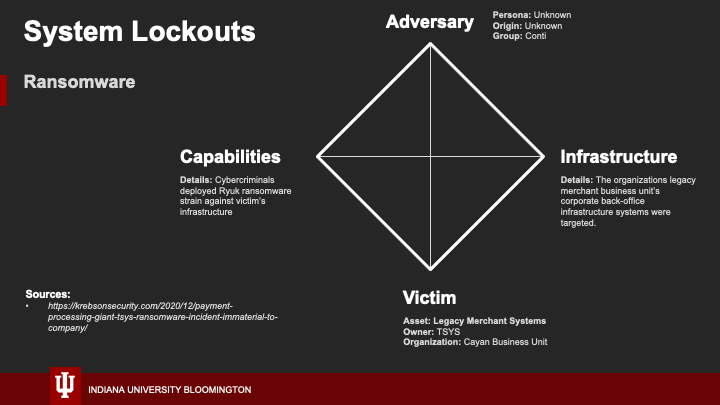
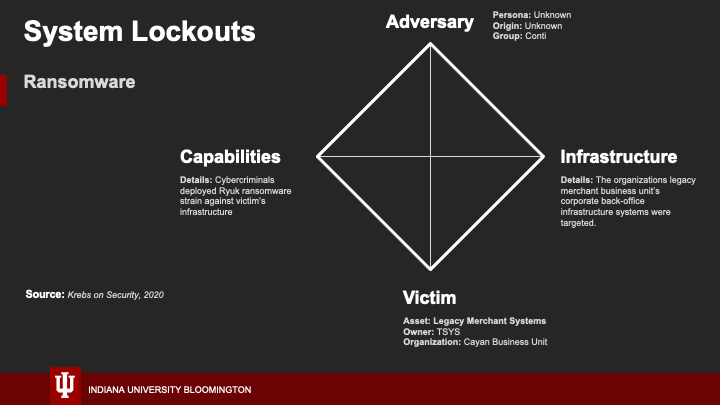
update models

Changed region(s): [[0.0611, 0.7111, 0.3972, 0.8296]]

diff --git a/references/index.html b/references/index.html
@@ -8,61 +8,95 @@ title: "References"
         <div class="layout">
 
             <ul>
-                <li>Lukic, D. (2020), Heartland Payment Systems Breach, What Lessons to be Learned
-                    https://www.idstrong.com/sentinel/heartland-data-breach/</li>
-                <li>(2022). Wikipedia Albert Gonzalez. https://en.wikipedia.org/wiki/Albert_Gonzalez</li>
-                <li>Gillis, A. (2021) Application. https://searchsoftwarequality.techtarget.com/definition/application
+                <li>“9 Biggest Data Breaches in Financial Services [Updated for 2022]:Upguard.”RSS, <a
+                        href="https://www.upguard.com/blog/biggest-data-breaches-financial-services">https://www.upguard.com/blog/biggest-data-breaches-financial-services</a>.
                 </li>
-                <li>Grand View Research, (2022). “Digital Payment Market Size Worth $361.30 Billion by 2030”
-                    https://www.prnewswire.com/news-releases/digital-payment-market-size-worth-361-30-billion-by-2030-grand-view-research-inc-301472256.html#:~:text=SAN%20FRANCISCO%2C%20Feb.,by%20Grand%20View%20Research%2C%20Inc
+                <li>“Albert Gonzalez.” Wikipedia, 2022, <a
+                        href="https://en.wikipedia.org/wiki/Albert_Gonzalez">https://en.wikipedia.org/wiki/Albert_Gonzalez</a>.
                 </li>
-                <li>Smith, David. (2021), “Artificial Intelligence for Secure Payments.”,
-                    https://ai4.io/blog/2020/06/05/artificial-intelligence-for-secure-payments/. </li>
-                <li>“9 Biggest Data Breaches in Financial Services [Updated for 2022]: Upguard.” RSS,
-                    https://www.upguard.com/blog/biggest-data-breaches-financial-services.</li>
-                <li>Weiner, Rachel. “Hacker Linked to Target Data Breach Gets 14 Years in Prison.” The Washington Post,
-                    WP Company, 21 Sept. 2018,
-                    https://www.washingtonpost.com/local/public-safety/hacker-linked-to-target-data-breach-gets-14-years-in-prison/2018/09/21/839fd6b0-bd17-11e8-b7d2-0773aa1e33da_story.html.
-                </li>
-                <li>McCoy, Kevin.(2017), “Target to Pay $18.5M for 2013 Data Breach That Affected 41 Million Consumers.”
-                    USA Today, Gannett Satellite Information Network,
-                    https://www.usatoday.com/story/money/2017/05/23/target-pay-185m-2013-data-breach-affected-consumers/102063932/.
-                </li>
-                <li>Written by Dan Rafter for NortonLifeLock. “2019 Data Breaches: 4 Billion Records Breached so Far.”
-                    Norton, https://us.norton.com/internetsecurity-emerging-threats-2019-data-breaches.html#fin.</li>
                 <li>“Attacks Surge in 1H 2021 as Trend Micro Blocks 41 Billion Cyber Threats.” Trend Micro, 14 Sept.
-                    2021,
-                    https://newsroom.trendmicro.com/2021-09-14-Attacks-Surge-in-1H-2021-as-Trend-Micro-Blocks-41-Billion-Cyber-Threats.
+                    2021, <a
+                        href="https://newsroom.trendmicro.com/2021-09-14-Attacks-Surge-in-1H-2021-as-Trend-Micro-Blocks-41-Billion-Cyber-Threats">https://newsroom.trendmicro.com/2021-09-14-Attacks-Surge-in-1H-2021-as-Trend-Micro-Blocks-41-Billion-Cyber-Threats</a>.
                 </li>
                 <li>Blizard, Dawn. “Be Prepared for Increased DDoS Attacks Ahead of Black Friday.” Security
-                    Intelligence, 23 Nov. 2020,
-                    https://securityintelligence.com/articles/ddos-attacks-ramp-up-black-friday-how-to-prepare/.</li>
+                    Intelligence, 23 Nov. 2020, <a
+                        href="https://securityintelligence.com/articles/ddos-attacks-ramp-up-black-friday-how-to-prepare/">https://securityintelligence.com/articles/ddos-attacks-ramp-up-black-friday-how-to-prepare/</a>.
+                </li>
+                <li>Gillis, Alexander S. “Application.” TechTarget, <a
+                        href="https://searchsoftwarequality.techtarget.com/definition/application">https://searchsoftwarequality.techtarget.com/definition/application</a>.
+                </li>
+                <li>Grand View Research, (2022). “Digital Payment Market Size Worth $361.30 Billion by 2030” <a
+                        href="https://www.prnewswire.com/news-releases/digital-payment-market-size-worth-361-30-billion-by-2030-grand-view-research-inc-301472256.html#:~:text=SAN%20FRANCISCO%2C%20Feb.,by%20Grand%20View%20Research%2C%20Inc">https://www.prnewswire.com/news-releases/digital-payment-market-size-worth-361-30-billion-by-2030-grand-view-research-inc-301472256.html#:~:text=SAN%20FRANCISCO%2C%20Feb.,by%20Grand%20View%20Research%2C%20Inc</a>.
+                </li>
+                <li>Fraser, Nalani, et al. “APT38: Details on New North Korean Regime-Backed Threat Group.” Mandiant, 3
+                    Oct. 2018, <a
+                        href="https://www.mandiant.com/resources/apt38-details-on-new-north-korean-regime-backed-threat-group">https://www.mandiant.com/resources/apt38-details-on-new-north-korean-regime-backed-threat-group</a>.
+                </li>
                 <li>Hope, Alicia. “Credit Card Skimmer at Costco Compromises Customers' Payment Information.” CPO
-                    Magazine, 19 Nov. 2021,
-                    https://www.cpomagazine.com/cyber-security/credit-card-skimmer-at-costco-compromises-customers-payment-information/.
+                    Magazine, 19 Nov. 2021, <a
+                        href="https://www.cpomagazine.com/cyber-security/credit-card-skimmer-at-costco-compromises-customers-payment-information/">https://www.cpomagazine.com/cyber-security/credit-card-skimmer-at-costco-compromises-customers-payment-information/</a>.
                 </li>
                 <li>Ignoffo, Zachary. “Dark Web Price Index 2021 - Dark Web Prices of Personal Data.” PRIVACY Affairs, 3
-                    Feb. 2022, https://www.privacyaffairs.com/dark-web-price-index-2021/.</li>
+                    Feb. 2022, <a
+                        href="https://www.privacyaffairs.com/dark-web-price-index-2021/">https://www.privacyaffairs.com/dark-web-price-index-2021/</a>.
+                </li>
                 <li>Klinjnsma, Yonathan. “Magecart Group 8 Blends into NutriBullet.com Adding To Their Growing List of
-                    Victims.” RiskIQ, 18 Mar. 2020, https://www.riskiq.com/blog/labs/magecart-nutribullet/.</li>
-                <li>Kost, Edward. “The 6 Biggest Cyber Threats for Financial Services in 2022: Upguard.” UpGuard, 30
-                    Jan. 2022, https://www.upguard.com/blog/biggest-cyber-threats-for-financial-services.</li>
+                    Victims.” RiskIQ, 18 Mar. 2020, <a
+                        href="https://www.riskiq.com/blog/labs/magecart-nutribullet/">https://www.riskiq.com/blog/labs/magecart-nutribullet/</a>.
+                </li>
+                <li>Kost, Edward. “The 6 Biggest Cyber Threats for Financial Services in 2022:Upguard.”UpGuard, 30 Jan.
+                    2022,<a
+                        href="https://www.upguard.com/blog/biggest-cyber-threats-for-financial-services">https://www.upguard.com/blog/biggest-cyber-threats-for-financial-services</a>.
+                </li>
                 <li>Layton, Roslyn. “Hackers Are Targeting U.S. Banks, and Hardware May Give Them an Open Door.” Forbes,
-                    17 Mar. 2021,
-                    https://www.forbes.com/sites/roslynlayton/2021/03/17/hackers-are-targeting-us-banks-and-hardware-may-give-them-an-open-door/?sh=debdfe14dccb.
+                    17 Mar. 2021, <a
+                        href="https://www.forbes.com/sites/roslynlayton/2021/03/17/hackers-are-targeting-us-banks-and-hardware-may-give-them-an-open-door/?sh=debdfe14dccb">https://www.forbes.com/sites/roslynlayton/2021/03/17/hackers-are-targeting-us-banks-and-hardware-may-give-them-an-open-door/?sh=debdfe14dccb</a>.
+                </li>
+                <li>Lukic, David. “Heartland Payment Systems Breach & Consequences.” IDStrong, 27 Nov. 2020, <a
+                        href="https://www.idstrong.com/sentinel/heartland-data-breach/">https://www.idstrong.com/sentinel/heartland-data-breach/</a>.
+                </li>
+                <li>McCoy,Kevin.(2017),“Target to Pay $18.5M for 2013 Data Breach That Affected 41 Million
+                    Consumers.”USA Today, Gannett Satellite Information Network, <a
+                        href="https://www.usatoday.com/story/money/2017/05/23/target-pay-185m-2013-data-breach-affected-consumers/102063932/">https://www.usatoday.com/story/money/2017/05/23/target-pay-185m-2013-data-breach-affected-consumers/102063932/</a>.
+                </li>
+                <li>Millman, Rene. “FBI Raids Chinese POS Business Following Cyber Attack Claims.” IT Pro, 27 Oct. 2021,
+                    <a
+                        href="https://www.itpro.com/security/malware/361371/fbi-raids-chinese-pos-terminal-business-after-reports-of-malware-in-devices%E2%80%8B">https://www.itpro.com/security/malware/361371/fbi-raids-chinese-pos-terminal-business-after-reports-of-malware-in-devices%E2%80%8B</a>.
                 </li>
                 <li>Page, Carly. “DOJ Files 7 New Charges against Alleged Capital One Hacker.” TechCrunch, 30 June 2021,
-                    https://techcrunch.com/2021/06/30/doj-files-7-new-charges-against-alleged-capital-one-hacker/.</li>
+                    <a
+                        href="https://techcrunch.com/2021/06/30/doj-files-7-new-charges-against-alleged-capital-one-hacker/">https://techcrunch.com/2021/06/30/doj-files-7-new-charges-against-alleged-capital-one-hacker/</a>.
+                </li>
+                <li>“PAX POS Cyberattacks: Are Your Payment Terminals Compromised?” Barcodes, 10 Nov. 2021, <a
+                        href="https://www.barcodesinc.com/news/pax-pos-cyberattacks-payment-terminals-compromised-fbi/">https://www.barcodesinc.com/news/pax-pos-cyberattacks-payment-terminals-compromised-fbi/</a>.
+                </li>
+                <li>“Payment Processing Giant Tsys: Ransomware Incident 'Immaterial' to Company.” Krebs on Security, 10
+                    Dec. 2020, <a
+                        href="https://krebsonsecurity.com/2020/12/payment-processing-giant-tsys-ransomware-incident-immaterial-to-company/">https://krebsonsecurity.com/2020/12/payment-processing-giant-tsys-ransomware-incident-immaterial-to-company/</a>.
+                </li>
+                <li>Rafter, Dan. “2019 Data Breaches: 4 Billion Records Breached so Far.” Norton, <a
+                        href="https://us.norton.com/internetsecurity-emerging-threats-2019-data-breaches.html">https://us.norton.com/internetsecurity-emerging-threats-2019-data-breaches.html</a>.
+                </li>
                 <li>Scroxton, Alex. “Coronavirus: Magecart Attacks on Online Retailers Jump 20%.” ComputerWeekly.com, 2
-                    Apr. 2020,
-                    https://www.computerweekly.com/news/252481069/Coronavirus-Magecart-attacks-on-online-retailers-jump-20.
+                    Apr. 2020, <a
+                        href="https://www.computerweekly.com/news/252481069/Coronavirus-Magecart-attacks-on-online-retailers-jump-20">https://www.computerweekly.com/news/252481069/Coronavirus-Magecart-attacks-on-online-retailers-jump-20</a>.
+                </li>
+                <li>Smith, David. (2021), “Artificial Intelligence for Secure Payments.”,<a
+                        href="https://ai4.io/blog/2020/06/05/artificial-intelligence-for-secure-payments/">https://ai4.io/blog/2020/06/05/artificial-intelligence-for-secure-payments/</a>.
+                </li>
+                <li>“Venmo Scam - Payments App Users Under Attack.” Throttlenet, <a
+                        href="https://www.throttlenet.com/blog/computer-tips/venmo-scam-payments-app-users-under-attack/">https://www.throttlenet.com/blog/computer-tips/venmo-scam-payments-app-users-under-attack/</a>.
                 </li>
                 <li>Toulas, Bill. “Credit Card Info of 1.8 Million People Stolen from Sports Gear Sites.”
-                    BleepingComputer, 17 Dec. 2021,
-                    https://www.bleepingcomputer.com/news/security/credit-card-info-of-18-million-people-stolen-from-sports-gear-sites/.Zhang,
-                    Ellen. “The Top 10 FinServ Data Breaches.” Digital Guardian, 8 May 2019,
-                    https://digitalguardian.com</li>
-
+                    BleepingComputer, 17 Dec. 2021, <a
+                        href="https://www.bleepingcomputer.com/news/security/credit-card-info-of-18-million-people-stolen-from-sports-gear-sites/">https://www.bleepingcomputer.com/news/security/credit-card-info-of-18-million-people-stolen-from-sports-gear-sites/</a>.
+                </li>
+                <li>Weiner, Rachel. “Hacker Linked to Target Data Breach Gets 14 Years in Prison.”The Washington Post,
+                    WP Company, 21 Sept. 2018, <a
+                        href="https://www.washingtonpost.com/local/public-safety/hacker-linked-to-target-data-breach-gets-14-years-in-prison/2018/09/21/839fd6b0-bd17-11e8-b7d2-0773aa1e33da_story.html">https://www.washingtonpost.com/local/public-safety/hacker-linked-to-target-data-breach-gets-14-years-in-prison/2018/09/21/839fd6b0-bd17-11e8-b7d2-0773aa1e33da_story.html</a>.
+                </li>
+                <li>Zhang, Ellen. “The Top 10 FinServ Data Breaches.”Digital Guardian, 8 May 2019, <a
+                        href="https://digitalguardian.com">https://digitalguardian.com</a>.</li>
             </ul>
 
         </div>
